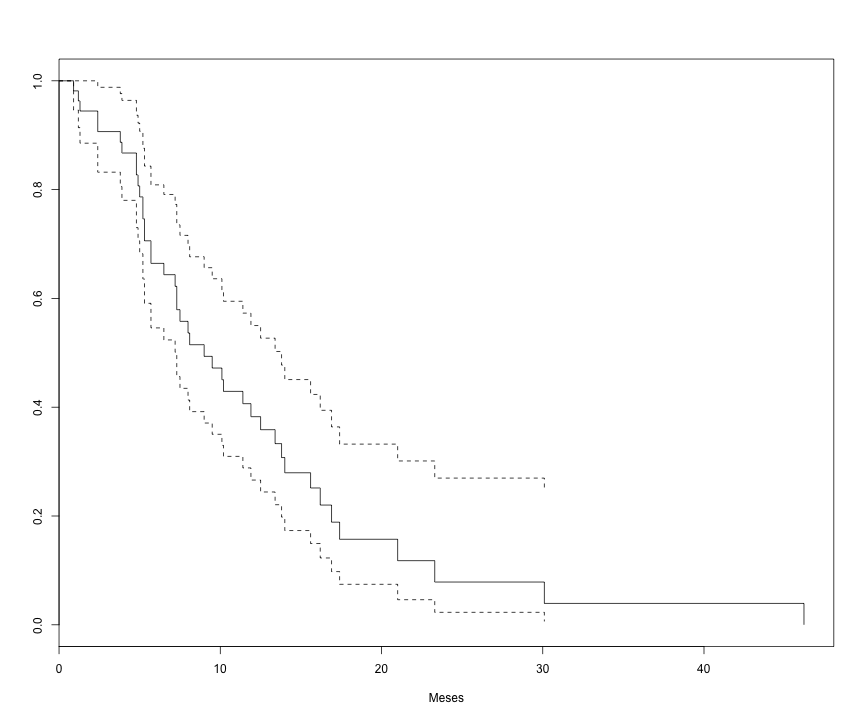
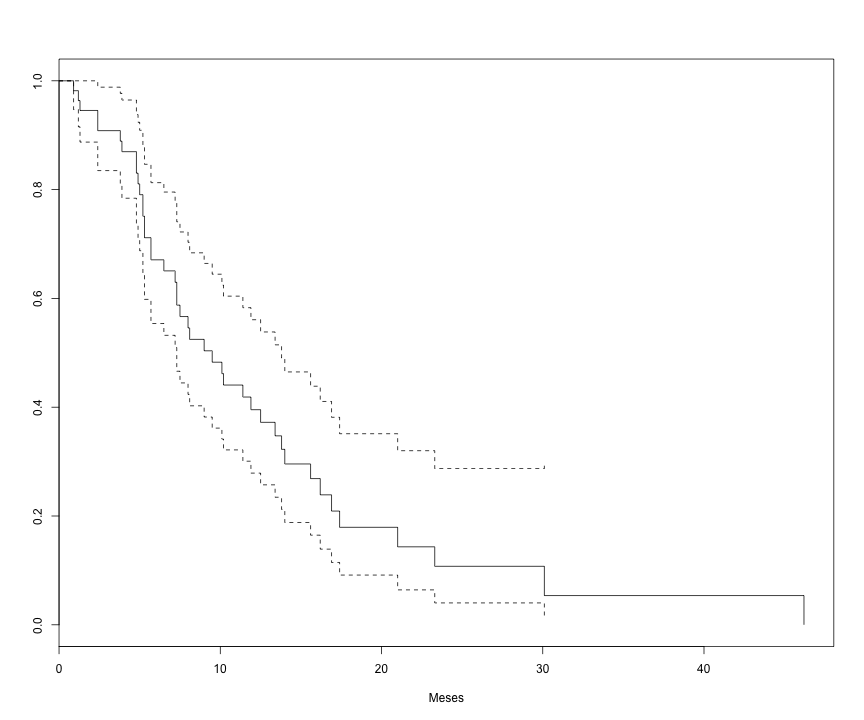
openlabnotebookexamplefix

diff --git a/_posts/2016-06-13-Cálculos-da-análise-retrospectiva.md b/_posts/2016-06-13-Cálculos-da-análise-retrospectiva.md
@@ -35,7 +35,7 @@ Este é o resumo da variável de sobrevida, além da sobrevida em 12 meses e tem
 ## Call: survfit(formula = Surv(surv, status) ~ 1, data = dipg)
 ## 
 ##       n  events  median 0.95LCL 0.95UCL 
-##    55.0    42.0     9.0     7.3    13.8
+##    56.0    42.0     9.5     7.3    13.8
 ```
 
 
@@ -43,20 +43,20 @@ Este é o resumo da variável de sobrevida, além da sobrevida em 12 meses e tem
 ## Call: survfit(formula = Surv(surv, status) ~ 1, data = dipg)
 ## 
 ##  time n.risk n.event survival std.err lower 95% CI upper 95% CI
-##    12     16      30    0.383  0.0709        0.266         0.55
+##    12     17      30    0.395  0.0705        0.279        0.561
 ```
 
-Mostrando uma mediana de sobrevida de 11.9929296 meses e sobrevida em 12 meses de 38.3 %.
+Mostrando uma mediana de sobrevida de 12.7180495 meses e sobrevida em 12 meses de 39.5 %.
 
 
 ```
 ## Call: survfit(formula = Surv(surv, ifelse(status < 1, 1, 0)) ~ 1, data = dipg)
 ## 
 ##       n  events  median 0.95LCL 0.95UCL 
-##    55.0    13.0    19.6    13.8      NA
+##    56.0    14.0    25.0    15.8      NA
 ```
 
-Mostrando uma mediana de follow-up de 27.961267 meses.
+Mostrando uma mediana de follow-up de 25.5 meses.
 
 Aqui, o gráfico comparativo entre os pacientes que fizeram QT segundo um esquema HIT e os outros pacientes:
 
@@ -74,7 +74,7 @@ E o resumo da sobrevida nos 2 grupos, com sobrevida aos 12 meses:
 ## 
 ##                           n events median 0.95LCL 0.95UCL
 ## ifelse(QT1 < 10, 0, 1)=0 44     41      8     6.5    11.9
-## ifelse(QT1 < 10, 0, 1)=1 11      1     NA      NA      NA
+## ifelse(QT1 < 10, 0, 1)=1 12      1     NA      NA      NA
 ```
 
 ```
@@ -89,12 +89,12 @@ E o resumo da sobrevida nos 2 grupos, com sobrevida aos 12 meses:
 ## 
 ##                 ifelse(QT1 < 10, 0, 1)=1 
 ##         time       n.risk      n.event     survival      std.err 
-##       12.000        3.000        1.000        0.857        0.132 
+##       12.000        4.000        1.000        0.875        0.117 
 ## lower 95% CI upper 95% CI 
-##        0.633        1.000
+##        0.673        1.000
 ```
 
-Mostrando uma sobrevida aos 12 meses de 85.7 % para o grupo tratado com protocolo _as per_ HIT (n = 11 ) e de 32.3 % para os demais (n = 44 ).
+Mostrando uma sobrevida aos 12 meses de 87.5 % para o grupo tratado com protocolo _as per_ HIT (n = 12 ) e de 32.3 % para os demais (n = 44 ).
 
 Comparando os dois grupos com um teste não paramétrico que utiliza o estimador de Kaplan-Meier, o teste de log-rank, ou de Mantel-Haenszel (vide documentação do pacote [_survival_](https://cran.r-project.org/web/packages/survival/survival.pdf)).
 
@@ -104,10 +104,10 @@ Comparando os dois grupos com um teste não paramétrico que utiliza o estimador
 ##     data = dipg)
 ## 
 ##                           N Observed Expected (O-E)^2/E (O-E)^2/V
-## ifelse(QT1 < 10, 0, 1)=0 44       41    35.65     0.804      5.48
-## ifelse(QT1 < 10, 0, 1)=1 11        1     6.35     4.512      5.48
+## ifelse(QT1 < 10, 0, 1)=0 44       41    33.81      1.53      8.04
+## ifelse(QT1 < 10, 0, 1)=1 12        1     8.19      6.31      8.04
 ## 
-##  Chisq= 5.5  on 1 degrees of freedom, p= 0.0193
+##  Chisq= 8  on 1 degrees of freedom, p= 0.00459
 ```
 Comparando os dois grupos com um teste semiparamétrico, o modelo de riscos proporcionais de Cox (vide documentação do pacote [_survival_](https://cran.r-project.org/web/packages/survival/survival.pdf)).
 
@@ -116,19 +116,20 @@ Comparando os dois grupos com um teste semiparamétrico, o modelo de riscos prop
 ## coxph(formula = Surv(surv, status) ~ ifelse(QT1 < 10, 0, 1), 
 ##     data = dipg)
 ## 
-##   n= 55, number of events= 42 
+##   n= 56, number of events= 42 
 ## 
 ##                           coef exp(coef) se(coef)      z Pr(>|z|)  
-## ifelse(QT1 < 10, 0, 1) -2.0106    0.1339   1.0137 -1.983   0.0473 *
+## ifelse(QT1 < 10, 0, 1) -2.3147    0.0988   1.0131 -2.285   0.0223 *
 ## ---
 ## Signif. codes:  0 '***' 0.001 '**' 0.01 '*' 0.05 '.' 0.1 ' ' 1
 ## 
 ##                        exp(coef) exp(-coef) lower .95 upper .95
-## ifelse(QT1 < 10, 0, 1)    0.1339      7.468   0.01836    0.9765
+## ifelse(QT1 < 10, 0, 1)    0.0988      10.12   0.01356    0.7197
 ## 
-## Concordance= 0.57  (se = 0.035 )
-## Rsquare= 0.134   (max possible= 0.99 )
-## Likelihood ratio test= 7.91  on 1 df,   p=0.004916
-## Wald test            = 3.93  on 1 df,   p=0.04732
-## Score (logrank) test = 5.45  on 1 df,   p=0.01957
+## Concordance= 0.585  (se = 0.036 )
+## Rsquare= 0.189   (max possible= 0.99 )
+## Likelihood ratio test= 11.76  on 1 df,   p=0.0006042
+## Wald test            = 5.22  on 1 df,   p=0.02233
+## Score (logrank) test = 8  on 1 df,   p=0.004679
 ```
+Este resultado indica que existe a possibilidade de haver alguma diferença de sobrevida quando os pacientes recebem ácido valpróico juntamente com o tratamento.
